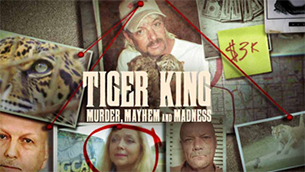
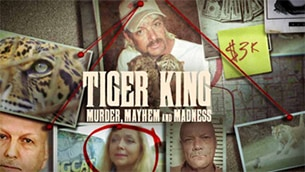
refactor: compressed all images

diff --git a/src/containers/browse.js b/src/containers/browse.js
@@ -1,9 +1,11 @@
-import React from 'react';
+import React, { useState } from 'react';
 import { Card, Header } from '../components';
 import * as ROUTES from '../constants/routes';
 import logo from '../logo.svg';
 
-export default function BrowseContainer({ selection, setSelection, slides }) {
+export default function BrowseContainer({ slides }) {
+  const [selection, setSelection] = useState('series');
+
   return (
     <>
       <Header bg={false}>
@@ -21,11 +23,11 @@ export default function BrowseContainer({ selection, setSelection, slides }) {
       </Header>
 
       <Card.Group>
-        {slides.map((slideItem) => (
+        {slides[selection].map((slideItem) => (
           <Card key={`${slideItem.title}-${slideItem.genre}`}>
             <Card.Title>{slideItem.title}</Card.Title>
             <Card.Entities>
-              {slideItem.data?.map((item) => (
+              {slideItem.data.map((item) => (
                 <Card.Item key={item.docId}>
                   <Card.Image src={`/images/${selection}/${item.genre}/${item.slug}/small.jpg`} />
                   <Card.Meta>

diff --git a/src/components/card/index.js b/src/components/card/index.js
@@ -2,7 +2,11 @@ import React from 'react';
 import { Container, Group, Title, SubTitle, Text, Meta, Entities, Item, Image } from './styles/card';
 
 export default function Card({ children, ...restProps }) {
-  return <Container {...restProps}>{children}</Container>;
+  return (
+    <Container {...restProps} onLoad={() => 'loaded'}>
+      {children}
+    </Container>
+  );
 }
 
 Card.Group = function CardGroup({ children, ...restProps }) {
@@ -37,8 +41,8 @@ Card.Item = function CardItem({ children, ...restProps }) {
   return <Item {...restProps}>{children}</Item>;
 };
 
-Card.Image = function CardImage({ src, ...restProps }) {
-  return <Image src={src} {...restProps} />;
+Card.Image = function CardImage({ ...restProps }) {
+  return <Image {...restProps} />;
 };
 
 // loading state on cards (placeholder)

diff --git a/src/pages/browse.js b/src/pages/browse.js
@@ -7,12 +7,11 @@ export default function Browse() {
   const { series } = useContent('series');
   const { films } = useContent('films');
   const [profileId, setProfileId] = useState(null);
-  const [selection, setSelection] = useState('series');
-  const slideData = selectionMap({ series, films });
+  const slides = selectionMap({ series, films });
 
   return profileId ? (
     <>
-      <BrowseContainer selection={selection} setSelection={setSelection} slides={slideData[selection]} />
+      <BrowseContainer slides={slides} />
       <FooterContainer />
     </>
   ) : (

diff --git a/src/hooks/use-content.js b/src/hooks/use-content.js
@@ -1,7 +1,10 @@
 import { useEffect, useState, useContext } from 'react';
 import { FirebaseContext } from '../context/firebase';
 
+// with the profile id updating, this is going to get called again and again,
+// need to figure out how to stop that
 export default function useContent(target) {
+  console.log('here');
   const [content, setContent] = useState([]);
   const { firebase } = useContext(FirebaseContext);
 

diff --git a/src/pages/home.js b/src/pages/home.js
@@ -20,7 +20,7 @@ export default function Home() {
       </HeaderContainer>
 
       {jumboData.map((item) => (
-        <Jumbotron direction={item.direction}>
+        <Jumbotron id={item.id} direction={item.direction}>
           <Jumbotron.Pane>
             <Jumbotron.Title>{item.title}</Jumbotron.Title>
             <Jumbotron.SubTitle>{item.subTitle}</Jumbotron.SubTitle>

diff --git a/src/containers/faqs.js b/src/containers/faqs.js
@@ -1,6 +1,6 @@
 import React from 'react';
 import { Accordion, OptForm } from '../components';
-import faqsData from '../fixtures/jumbo';
+import faqsData from '../fixtures/faqs';
 
 export default function FaqsContainer() {
   return (

diff --git a/src/components/card/styles/Card.js b/src/components/card/styles/Card.js
@@ -62,7 +62,6 @@ export const Meta = styled.div`
 
 export const Image = styled.img`
   border: 0;
-  background: url(${(props) => props.src});
   width: 100%;
   max-width: 305px;
   height: auto;

diff --git a/src/pages/signup.js b/src/pages/signup.js
@@ -1,5 +1,6 @@
 import React from 'react';
 
 export default function Signup() {
+  console.log('==========================================');
   return <p>Signup...</p>;
 }
